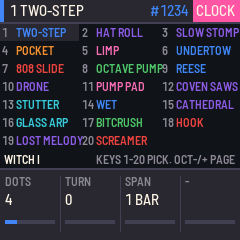
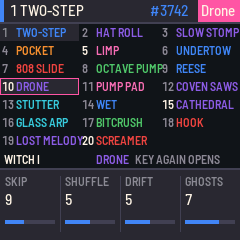
The shelf: a key picks a toy out, the same key again opens it; landmark keys lit, not all twenty
Claude-Session: https://claude.ai/code/session_01LQ7T63RBUZBHUzDjLH7WHJ

diff --git a/app/ui.c b/app/ui.c
@@ -11,7 +11,7 @@
  *   PLAY          play / stop the band               SEL       the next dark scale
  *   OCT- / OCT+   the seat on screen (1-8)           REC       Random (new seed); held: a random band,
  *                                                             or on the Tape / Clock page a random arrangement
- *   HOME          the shelf: keys pick a toy, OCT± the page (Witch I, II, III)   ARP  mute this seat
+ *   HOME          the shelf: a key picks a toy out, the same key again opens it; OCT± the page   ARP  mute this seat
  *   SEQ           the arrangement: Band, Tape, Clock (and its page)
  *   SAVE          held: a white key saves the toy there, a black key the band;
  *                 on the Saves page the keys load them       GLO tapped: help
@@ -48,6 +48,7 @@ static const uint16_t HUE_C[NHUES] = {RGB(140, 92, 230), RGB(66, 134, 244), RGB(
 
 static struct {
     int page, hold, dirty, help, browse, bpage, hint;
+    int pick;                                   /* the shelf: the toy a key picked out (0..19), -1 none; the same key again opens it */
     uint32_t btn_was, keys_was, btn_at[NB], keys_at;
     char say_a[24], say_b[24];
     uint32_t say_until, autosave, accel_at[NE], last_frame;
@@ -294,17 +295,29 @@ static void toy_pick(int id)       /* this toy into the seat on screen, with the
     changed();
 }
 
-static void shelf_key(int key)     /* the shelf: twenty toys a page on the keys */
+static int shelf_toy(int n)        /* the n-th toy (0..19) of the shelf's page, or -1 */
 {
-    int w = key_white[key], b = key_black[key], n = w >= 0 ? w : b >= 0 && b < 4 ? 16 + b : -1, i, c = 0;
-    if (n < 0)
-        return;
+    int i, c = 0;
     for (i = 0; i < NTOYS; i++)
-        if (TOYS[i]->page == ui.bpage && c++ == n) {
-            toy_pick(i);
-            ui.browse = 0;
-            return;
-        }
+        if (TOYS[i]->page == ui.bpage && c++ == n)
+            return i;
+    return -1;
+}
+
+static void shelf_key(int key)     /* the shelf: twenty toys a page on the keys. One press picks a toy out
+                                    * (named on the screen, its key lit); the same key again opens it */
+{
+    int w = key_white[key], b = key_black[key], n = w >= 0 ? w : b >= 0 && b < 4 ? 16 + b : -1, id;
+    if (n < 0 || (id = shelf_toy(n)) < 0)
+        return;
+    if (ui.pick == n) {
+        toy_pick(id);
+        ui.browse = 0;
+        ui.pick = -1;
+        return;
+    }
+    ui.pick = n;
+    say(TOYS[id]->name, "AGAIN TO OPEN");
 }
 
 static void speed_set(int pct)
@@ -402,9 +415,9 @@ static void button_tap(int b)      /* pressed and released without a layer being
 {
     switch (b) {
     case B_PLAY: band_play(!band_playing); if (!band_playing) changed(); break;
-    case B_HOME: ui.browse = !ui.browse; ui.help = 0; break;
-    case B_OCTDN: if (ui.browse) ui.bpage = (ui.bpage + NSHELF - 1) % NSHELF; else seat_set(proj.cur - 1); break;
-    case B_OCTUP: if (ui.browse) ui.bpage = (ui.bpage + 1) % NSHELF; else seat_set(proj.cur + 1); break;
+    case B_HOME: ui.browse = !ui.browse; ui.help = 0; ui.pick = -1; break;
+    case B_OCTDN: if (ui.browse) { ui.bpage = (ui.bpage + NSHELF - 1) % NSHELF; ui.pick = -1; } else seat_set(proj.cur - 1); break;
+    case B_OCTUP: if (ui.browse) { ui.bpage = (ui.bpage + 1) % NSHELF; ui.pick = -1; } else seat_set(proj.cur + 1); break;
     case B_REC: band_shake(proj.cur); say("NEW SEED", 0); changed(); break;
     case B_SEQ:                 /* the arrangement: Band, Tape, Clock; and its page */
         proj.now.mode = (uint8_t)((proj.now.mode + 1) % NMODES);
@@ -487,6 +500,7 @@ static void input(void)
         } else {
             ui.page = ((ui.page + e) % NPAGES + NPAGES) % NPAGES;
             ui.browse = ui.help = 0;
+            ui.pick = -1;
         }
         ui.dirty = 1;
     }
@@ -821,10 +835,17 @@ static void draw_shelf(void)       /* the toy box: twenty toys of this page, one
             continue;
         x = (n % 3) * 80;
         y = (n / 3) * 18;
-        if (cur() && cur()->id == i)
+        if (n == ui.pick) {                     /* picked out: boxed, the name's key is lit */
             cv_rect(x, y, 79, 17, K_PANEL);
+            cv_rect(x, y, 79, 1, K_ACC);
+            cv_rect(x, y + 16, 79, 1, K_ACC);
+            cv_rect(x, y, 1, 17, K_ACC);
+            cv_rect(x + 78, y, 1, 17, K_ACC);
+        } else if (cur() && cur()->id == i) {
+            cv_rect(x, y, 79, 17, K_PANEL);
+        }
         itoa_s(n + 1, b);
-        cv_text(x + 2, y + 1, &FONT_XS, b, K_DIM);
+        cv_text(x + 2, y + 1, &FONT_XS, b, n == ui.pick ? K_TEXT : (n + 1) % 5 == 0 ? K_TEXT : K_DIM);
         caps(b, TOYS[i]->name, 16);
         if (b[11]) {                            /* too wide for the column: the first word(s) that fit */
             int c = 11;
@@ -837,7 +858,13 @@ static void draw_shelf(void)       /* the toy box: twenty toys of this page, one
     }
     caps(b, SHELF_NAME[ui.bpage], 14);
     cv_text(4, 128, &FONT_XS, b, K_TEXT);
-    cv_text(96, 128, &FONT_XS, "KEYS 1-20 PICK. OCT-/+ PAGE", K_DIM);
+    if (ui.pick >= 0 && shelf_toy(ui.pick) >= 0) {
+        caps(b, TOYS[shelf_toy(ui.pick)]->name, 18);
+        cv_text(96, 128, &FONT_XS, b, HUE_C[TOYS[shelf_toy(ui.pick)]->hue]);
+        cv_text(96 + text_w(&FONT_XS, b) + 6, 128, &FONT_XS, "KEY AGAIN OPENS", K_DIM);
+    } else {
+        cv_text(96, 128, &FONT_XS, "A KEY PICKS. OCT-/+ PAGE", K_DIM);
+    }
     cv_blit(0, 24);
 }
 
@@ -923,13 +950,13 @@ static void leds(void)
         b |= 1u << B_SEQ;
     if (proj.now.seat[proj.cur].mute)
         b |= 1u << B_ARP;
-    if (ui.browse) {
-        int n = 0;
-        for (i = 0; i < (uint32_t)NTOYS; i++)
-            if (TOYS[i]->page == ui.bpage) {
+    if (ui.browse) {                            /* landmarks: keys 5, 10, 15 and 20; and the toy picked out */
+        int n;
+        for (n = 4; n < 20; n += 5)
+            if (shelf_toy(n) >= 0)
                 k |= 1u << (n < 16 ? WHITE[n] : BLACK[n - 16]);
-                n++;
-            }
+        if (ui.pick >= 0)
+            k |= 1u << (ui.pick < 16 ? WHITE[ui.pick] : BLACK[ui.pick - 16]);
     } else {
         if (ui.page == PG_TAPE) {
             int bar;
@@ -983,6 +1010,7 @@ void ui_init(void)
     ui.hold = L_NONE;
     ui.root_hold = -1;
     ui.solo = -1;
+    ui.pick = -1;
     ui.speed_toggle = 100;
     ui.btn_was = plat_buttons();
     ui.keys_was = plat_keys();

diff --git a/app/host.c b/app/host.c
@@ -3,7 +3,7 @@
  * witchbox1's checks for "expect", its commands and a reboot.
  *
  * Checks: playing page seat toy seed knobN scale chords tempo speed steps notes mute seated leds dirty slotN
- * browse hold (fm1-base's own: store_writes midi_out peak_db_max peak_db_min cpu). Commands: seat N TOY SEED (a toy
+ * browse hold pick (fm1-base's own: store_writes midi_out peak_db_max peak_db_min cpu). Commands: seat N TOY SEED (a toy
  * into seat N, by its module name, with that seed), foreign (another firmware's project left in the flash object). */
 
 int app_expect(const char *what, int *got)
@@ -50,6 +50,8 @@ int app_expect(const char *what, int *got)
         g = ui.browse;
     else if (!strcmp(what, "hold"))
         g = ui.hold;
+    else if (!strcmp(what, "pick"))
+        g = ui.pick;
     else
         return 0;
     *got = g;

diff --git a/app/docs/MANUAL.md b/app/docs/MANUAL.md
@@ -57,7 +57,7 @@ screen says which.
 | PLAY | the band plays / stops. Play always starts every toy from the top of its seed | |
 | REC | Random: a new seed for this toy, and the knobs that go with it | a random band of eight (drums, bass, chords, lead, voice, texture, a second lead and chords), fresh seeds; on the Tape or Clock page, a random arrangement instead |
 | OCT− / OCT+ | the seat on screen (1 to 8); on the shelf, its page | |
-| HOME | the shelf: twenty toys on the keys, OCT−/OCT+ for the other pages (Witch I to IV) | knobs: lights, volume |
+| HOME | the shelf: twenty toys on the keys (a key picks one out, the same key again opens it), OCT−/OCT+ for the other pages (Witch I to IV) | knobs: lights, volume |
 | SEL | the next dark scale (Playbox's SCALE button) | |
 | ARP | mute this seat | |
 | SEQ | the arrangement: Band (everyone plays), Tape, Clock, round again; the page follows | |
@@ -97,7 +97,11 @@ chord "that is coming" included, so Swell, Wet Piano, Riser and Tape Loop lean o
 On the Tape page the sixteen white keys are the sixteen bars in view of this seat's lane: a key
 toggles a bar.
 
-With HOME's shelf open, white keys 1–16 and black keys 1–4 are the twenty toys of that page.
+With HOME's shelf open, white keys 1–16 and black keys 1–4 are the twenty toys of that page, in
+the order the screen numbers them. A key picks its toy out: the name is boxed on the shelf and shown
+below it, and that key lights; the same key again opens the toy into the seat. Only keys 5, 10, 15
+and 20 are lit otherwise, as landmarks (their numbers are brighter on the screen too), so a key is
+easy to count to.
 On the Saves page, white keys load a saved toy into this seat and black keys 1–4 load a saved band.
 With SAVE held, the same keys save. With GLO held, white keys 1–16 pick Random and the fifteen
 progressions, black keys 1–9 the scale. With EDIT held, white keys type the seed.
